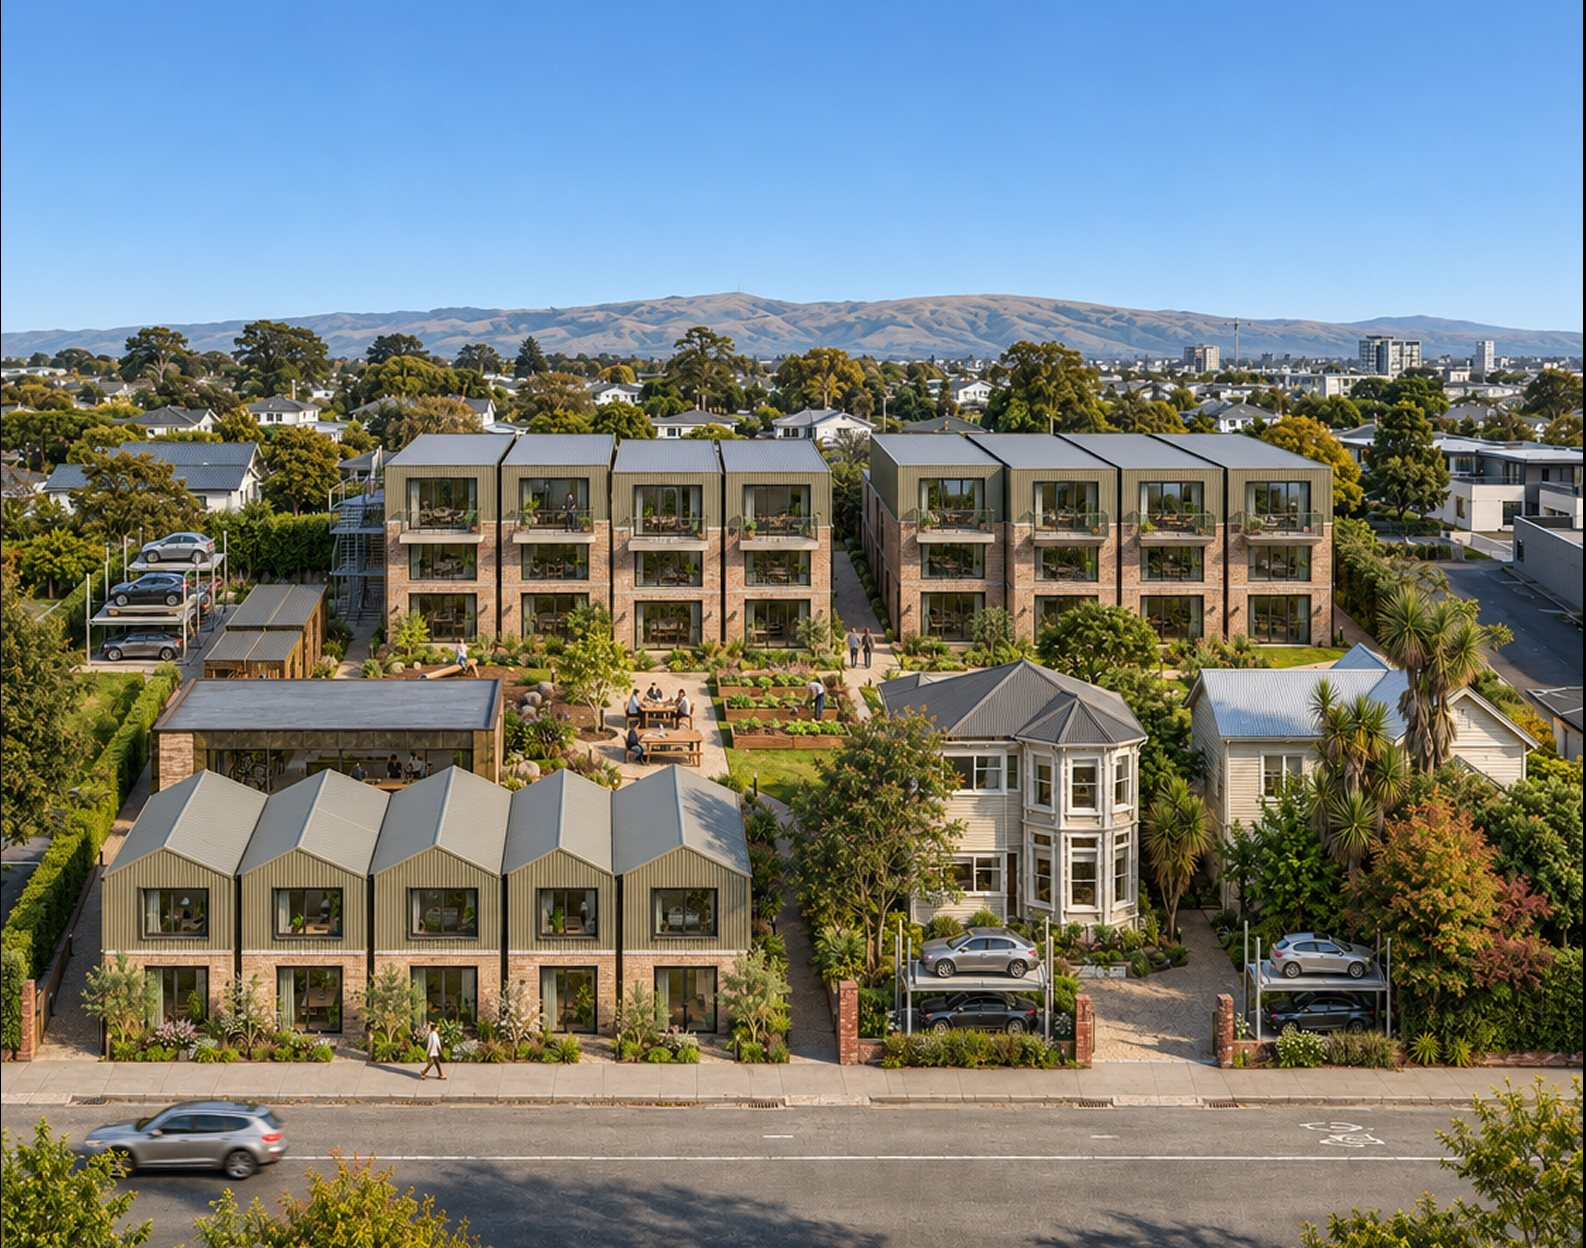
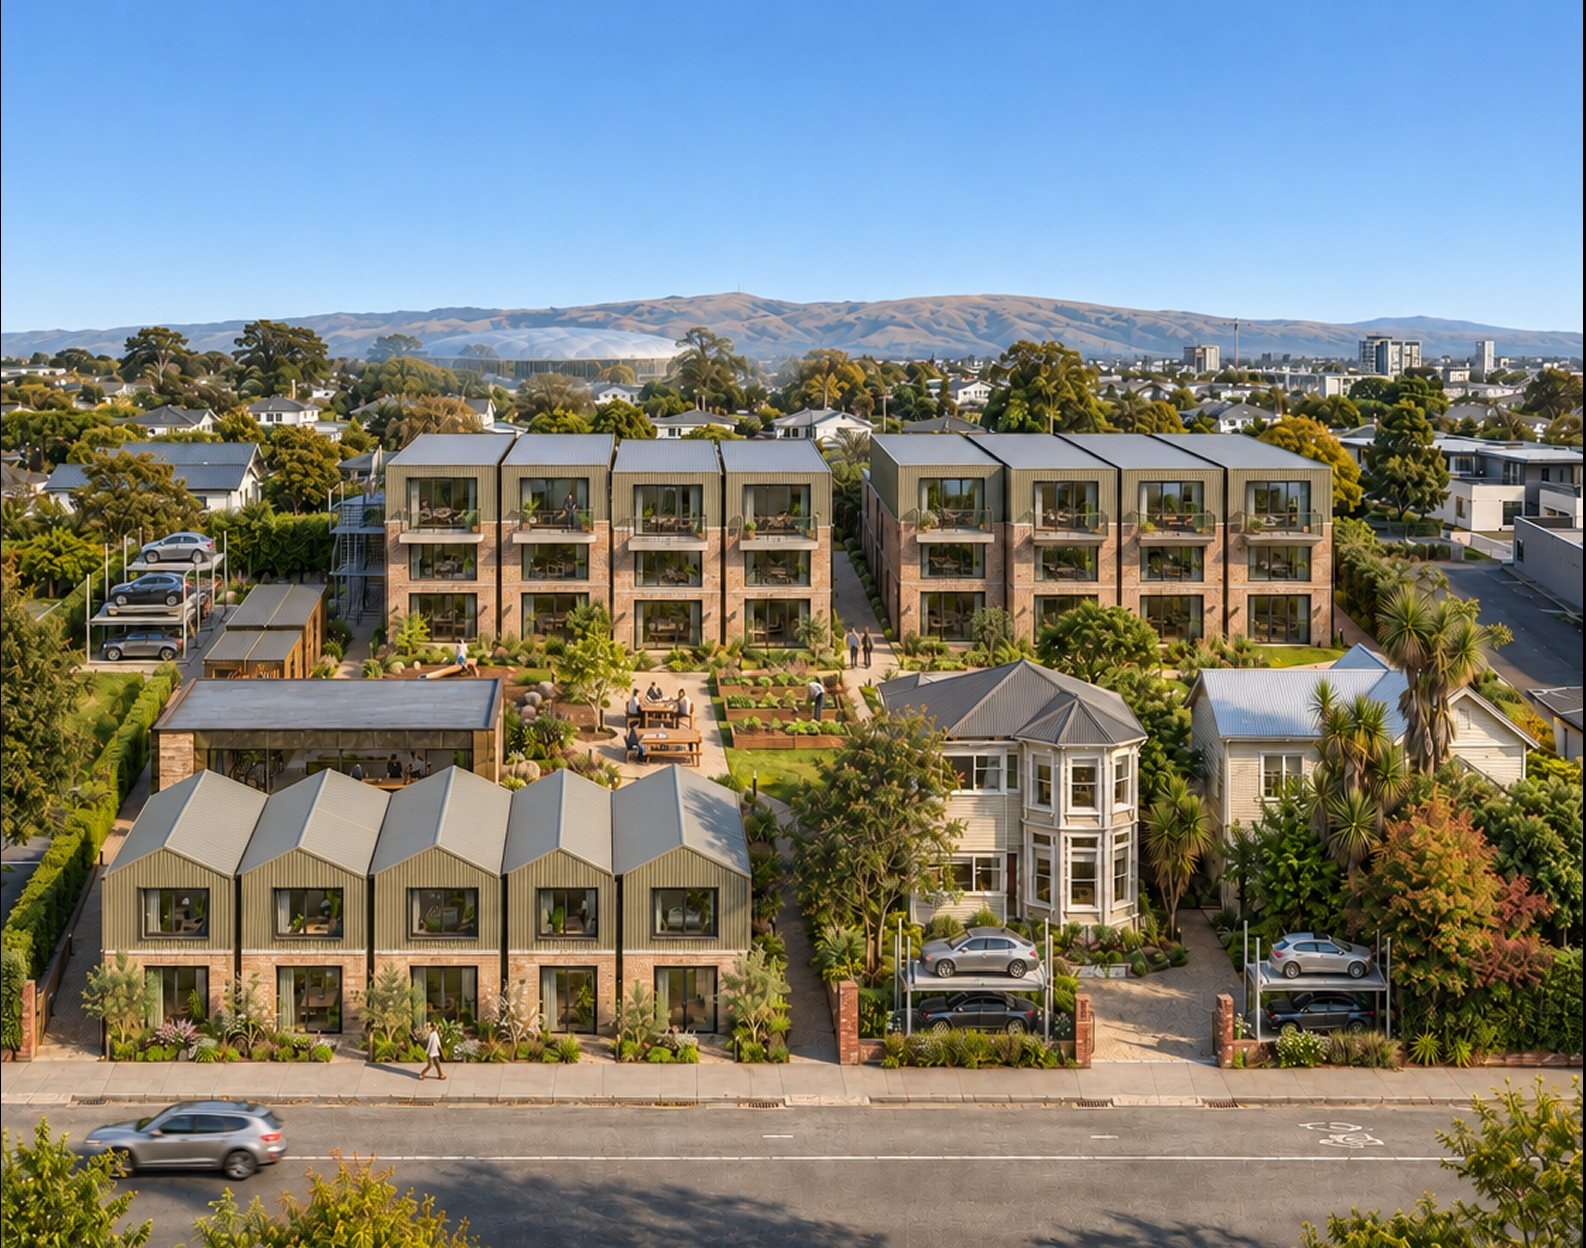
Central Circle hero: stadium added, lower rise, dusk within 3s; header button downloads the brochure
Claude-Session: https://claude.ai/code/session_01B7L5oTAaXQ6BMPNcPbsAcN

diff --git a/central-circle/src/components/SiteHeader.tsx b/central-circle/src/components/SiteHeader.tsx
@@ -1,6 +1,6 @@
 "use client";
 import { useEffect, useState } from "react";
-import { site, nav } from "@/content/copy";
+import { site, nav, brochure } from "@/content/copy";
 
 // Transparent over the hero, stone once scrolled. Shows live Christchurch weather, as on The Rise.
 export default function SiteHeader() {
@@ -45,8 +45,8 @@ export default function SiteHeader() {
         </a>
         <div className="flex items-center justify-end gap-5 text-[0.8rem] uppercase tracking-[0.22em]">
           <a href="#location" className="hidden 2xl:inline hover:opacity-70">Location</a>
-          <a href="#register" className={`btn !min-h-[44px] !px-4 sm:!px-5 max-lg:!hidden ${solid || open ? "btn-ink" : "btn-ghost-light"}`}>
-            {nav.cta}
+          <a href={brochure.href} download className={`btn !min-h-[44px] !px-4 sm:!px-5 max-lg:!hidden ${solid || open ? "btn-ink" : "btn-ghost-light"}`}>
+            {brochure.short}
           </a>
         </div>
       </div>
@@ -58,6 +58,7 @@ export default function SiteHeader() {
             ))}
           </ul>
           <a href="#register" onClick={() => setOpen(false)} className="btn btn-ink mt-6 w-full">{nav.cta}</a>
+          <a href={brochure.href} download onClick={() => setOpen(false)} className="btn mt-3 w-full">{brochure.short}</a>
           {weather && <p className="mt-4 text-sm uppercase tracking-[0.2em] text-body">{site.weatherLabel} · {weather}</p>}
         </nav>
       )}

diff --git a/central-circle/src/app/globals.css b/central-circle/src/app/globals.css
@@ -119,13 +119,14 @@ body {
 /* Hero: one slow move. The camera rises a few metres towards the Port Hills
    while the day render gives way to the dusk render. The homes are the
    original render in both frames; only the light and the sky change. */
-.hero-pan { object-position: 50% 20%; animation: hero-rise 26s cubic-bezier(.45,.05,.35,1) both; will-change: transform; }
-.hero-dusk { animation: hero-rise 26s cubic-bezier(.45,.05,.35,1) both, hero-dusk 26s ease-in-out both; }
+.hero-pan { object-position: 50% 62%; animation: hero-rise 12s cubic-bezier(.35,.1,.3,1) both; will-change: transform; }
+.hero-dusk { animation: hero-rise 12s cubic-bezier(.35,.1,.3,1) both, hero-dusk 3s ease-in-out both; }
 @keyframes hero-rise {
-  from { object-position: 50% 100%; transform: scale(1.1) translateY(4.5%); }
-  to   { object-position: 50% 20%; transform: scale(1) translateY(0); }
+  from { object-position: 50% 100%; transform: scale(1.05) translateY(2%); }
+  to   { object-position: 50% 62%; transform: scale(1) translateY(0); }
 }
-@keyframes hero-dusk { 0%, 12% { opacity: 0; } 100% { opacity: 1; } }
+/* Day to dusk inside the first three seconds, for impact; the rise carries on gently. */
+@keyframes hero-dusk { 0%, 10% { opacity: 0; } 100% { opacity: 1; } }
 @media (prefers-reduced-motion: reduce) { .hero-pan, .hero-dusk { animation: none; } }
 
 /* Form fields: underline only, like the Graya register form, but large. */

diff --git a/central-circle/src/content/copy.ts b/central-circle/src/content/copy.ts
@@ -31,8 +31,8 @@ export const hero = {
   status: "Private homes · Shared gardens · A common house · Two original villas retained",
   cta: "Register interest",
   image: "/media/hero-twilight.jpg", // still used for social previews
-  dayImage: "/media/hero-day.jpg", // original render relit for day, Port Hills added above the horizon (homes unchanged)
-  nightImage: "/media/hero-dusk.jpg", // original dusk render, pixel for pixel below the skyline, Port Hills added
+  dayImage: "/media/hero-day.jpg", // original render relit for day, Port Hills and the stadium added above the horizon (homes unchanged)
+  nightImage: "/media/hero-dusk.jpg", // original dusk render, pixel for pixel below the skyline, Port Hills and the stadium added
   imageAlt: "Artist's impression of The Central Circle at dusk: brick and sage-green homes around a lit shared garden, with two original villas on Kilmore Street",
   renderNote: "Artist's impression",
 };
@@ -235,6 +235,7 @@ export const form = {
 export const brochure = {
   href: "/brochure/The-Central-Circle-Brochure.pdf",
   label: "Download the brochure",
+  short: "Brochure",
   note: "PDF · 10 pages · 2.9 MB",
 };
 
